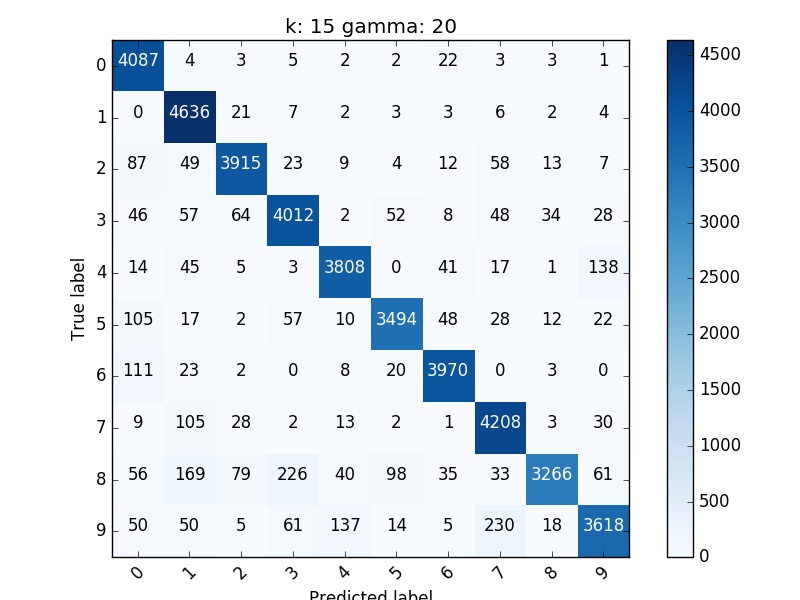
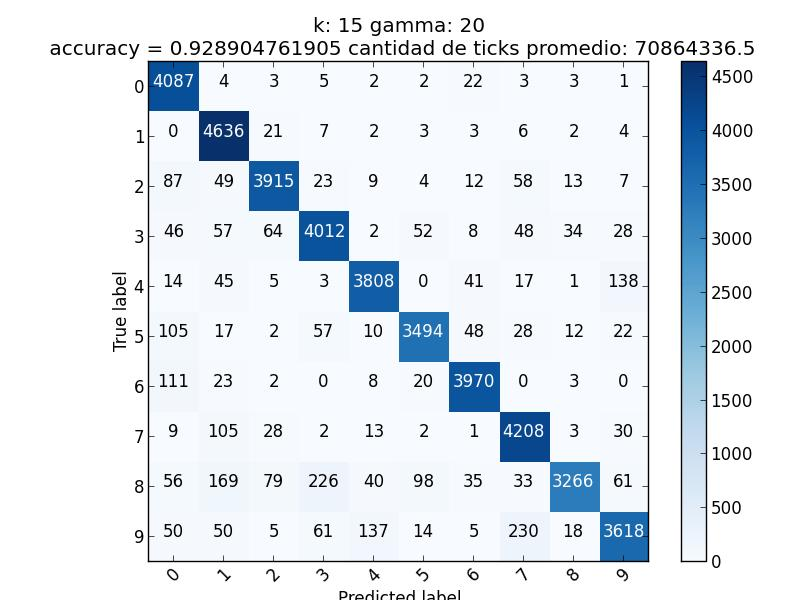
agregados parámetros, tiempo y accuracy a los gráficos

diff --git a/TP2/src/confMatrix.py b/TP2/src/confMatrix.py
@@ -1,5 +1,6 @@
 #!/usr/bin/python
 
+from __future__ import division
 import sys
 import getopt
 import platform
@@ -10,7 +11,7 @@ import numpy as np
 from numpy import ravel, reshape, swapaxes
 import scipy.io
 from sklearn import svm
-from sklearn.metrics import confusion_matrix
+from sklearn.metrics import confusion_matrix, accuracy_score
 from random import sample
 
 def plot_confusion_matrix(cm, classes,
@@ -26,11 +27,11 @@ def plot_confusion_matrix(cm, classes,
 
     if normalize:
         cm = cm.astype('float') / cm.sum(axis=1)[:, np.newaxis]
-        print("Normalized confusion matrix")
-    else:
-        print('Confusion matrix, without normalization')
+        #print("Normalized confusion matrix")
+    #else:
+        #print('Confusion matrix, without normalization')
 
-    print(cm)
+    #print(cm)
 
     thresh = cm.max() / 2.
     for i, j in itertools.product(range(cm.shape[0]), range(cm.shape[1])):
@@ -56,7 +57,9 @@ def readFile(filename):
 			except:
 				print("error occured in line " + str(i))
 				sys.exit(1)
-	return confusion_matrix(y_true,y_pred,labels)
+	accuracy = accuracy_score(y_true, y_pred, True)
+	confMatrix = confusion_matrix(y_true,y_pred,labels)
+	return accuracy, confMatrix
 
 def readParams(filename):
 	params = ''
@@ -64,28 +67,70 @@ def readParams(filename):
 		params = f.readline().split()
 	return params
 
-def graficar(metodo):
+def promediarTiempos(filename):
+	prom = 0
+	with open(filename) as f:
+		for line in f:
+			prom += int(line)
+	prom = prom / 10
+	return prom
+
+def analizar(metodo):
+	bestAccuracy = 0
+	bestAccuracyTime = 0
+	bestAccuracyParams = ''
+	bestTime = 9999999999999999
+	bestTimeAccuracy = 0
+	bestTimeParams = ''
+	bestRelation = 0
+	bestRelationAccuracy = 0
+	bestRelationTime = 0
+	bestRelationParams = ''
 	for i in xrange(1,12):
 		archivoParams = 'tests/test'+str(i)+'.in'
 		archivoEntrada = 'results/test' + str(i) +'.out.' +metodo+ '.resultados'
+		archivoTiempos = 'results/test' + str(i) +'.out.' +metodo+ '.tiempos'
 		archivoSalida = 'results/test' + str(i) +'.out.' +metodo+ '.confMatrix'
 		params = readParams(archivoParams)
-		confMatrix = readFile(archivoEntrada)
+		accuracy, confMatrix = readFile(archivoEntrada)
 		labels = [0, 1, 2, 3, 4, 5, 6, 7, 8, 9]
 		title = ''
+		cantTicks = promediarTiempos(archivoTiempos)
+		relation = accuracy / cantTicks
 		if metodo == 'pca':
-			title = ('k: '+ params[1] + ' alfa: '+ params[2])
+			title = ('k: '+ params[1] + ' alfa: '+ params[2] + '\n accuracy = '+str(accuracy)+' cantidad de ticks promedio: ' + str(cantTicks))
 		else:
-			title = ('k: '+ params[1] + ' gamma: '+ params[3])
+			title = ('k: '+ params[1] + ' gamma: '+ params[3] + '\n accuracy = '+str(accuracy)+' cantidad de ticks promedio: ' + str(cantTicks))
 		plt.figure()
 		plot_confusion_matrix(confMatrix, labels, False, title)
 		#plt.show()
 		plt.savefig(archivoSalida +'.jpg')
 		plt.close()
+		if metodo == 'pca':
+			paramsSTR = 'k: '+ params[1] + ' alfa: '+ params[2]
+		else:
+			paramsSTR = 'k: '+ params[1] + ' gamma: '+ params[3]
+		if accuracy > bestAccuracy :
+			bestAccuracy = accuracy
+			bestAccuracyTime = cantTicks
+			bestAccuracyParams = paramsSTR
+		if cantTicks < bestTime :
+			bestTime = cantTicks
+			bestTimeAccuracy = accuracy
+			bestTimeParams = paramsSTR
+		if relation > bestRelation :
+			bestRelation = relation
+			bestRelationAccuracy = accuracy
+			bestRelationTime = cantTicks
+			bestRelationParams = paramsSTR
+	return '*-- Best Params --*' + '\n' + 'Best Accuracy score:' + '\n' + 'Accuracy: ' +str(bestAccuracy) + ' Ticks: ' + str(bestAccuracyTime) + '\nParams: \n' + bestAccuracyParams + '\n' + 'Lowest Ticks score:' + '\n' + 'Accuracy: ' +str(bestTimeAccuracy) + ' Ticks: ' + str(bestTime) + '\nParams: \n' + bestTimeParams + '\n' + 'Best Accuracy / Ticks score:' + '\nBest Relation: ' + str(bestRelation) + ' \nAccuracy: ' +str(bestRelationAccuracy) + ' Ticks: ' + str(bestRelationTime) + '\nParams: \n' + bestRelationParams + '\n'
+		
 
 def main(argv):
-	graficar('pca')
-	graficar('plsda')
+	print '*-- PCA --*'
+	print analizar('pca')
+	print '*-- PLSDA --*'
+	print analizar('plsda')
 
 
 if __name__ == "__main__":

diff --git a/TP2/src/testing.py b/TP2/src/testing.py
@@ -27,7 +27,6 @@ def main(argv):
 		args = ['./tp', archivoEntrada, archivoSalida, metodo]
 		print 'comenzando test' + str(i)
 		process = subprocess.call(args)
-		process.wait()
 		print 'terminado test' + str(i)
 
 
